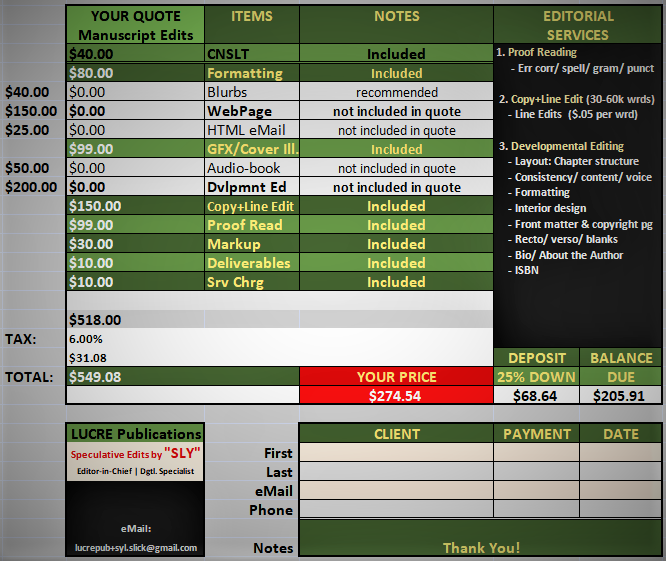
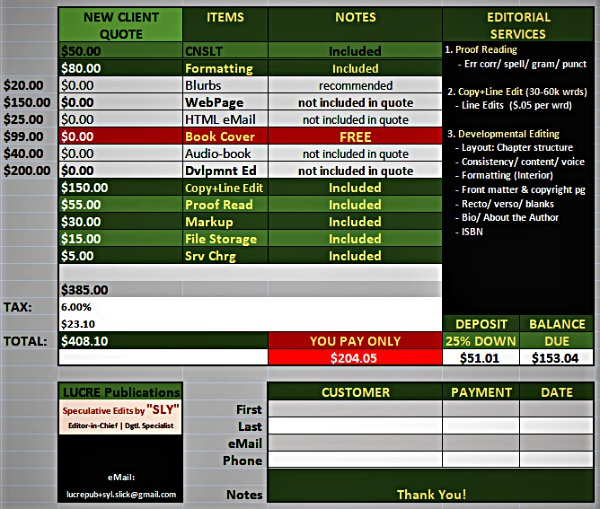
pricing

diff --git a/index.html b/index.html
@@ -122,7 +122,7 @@
 <br>	
 			<h1><span class="thick2">AFFORDABLE EDITING &AMP; BOOK FORMATTING SALE</h1>
 
-			<h1>ONLY $222</span></h1>
+			<h1>ONLY $204</span></h1>
 			<h2>FREE Book Cover Limited Time</h2>
 <br>				
 			
